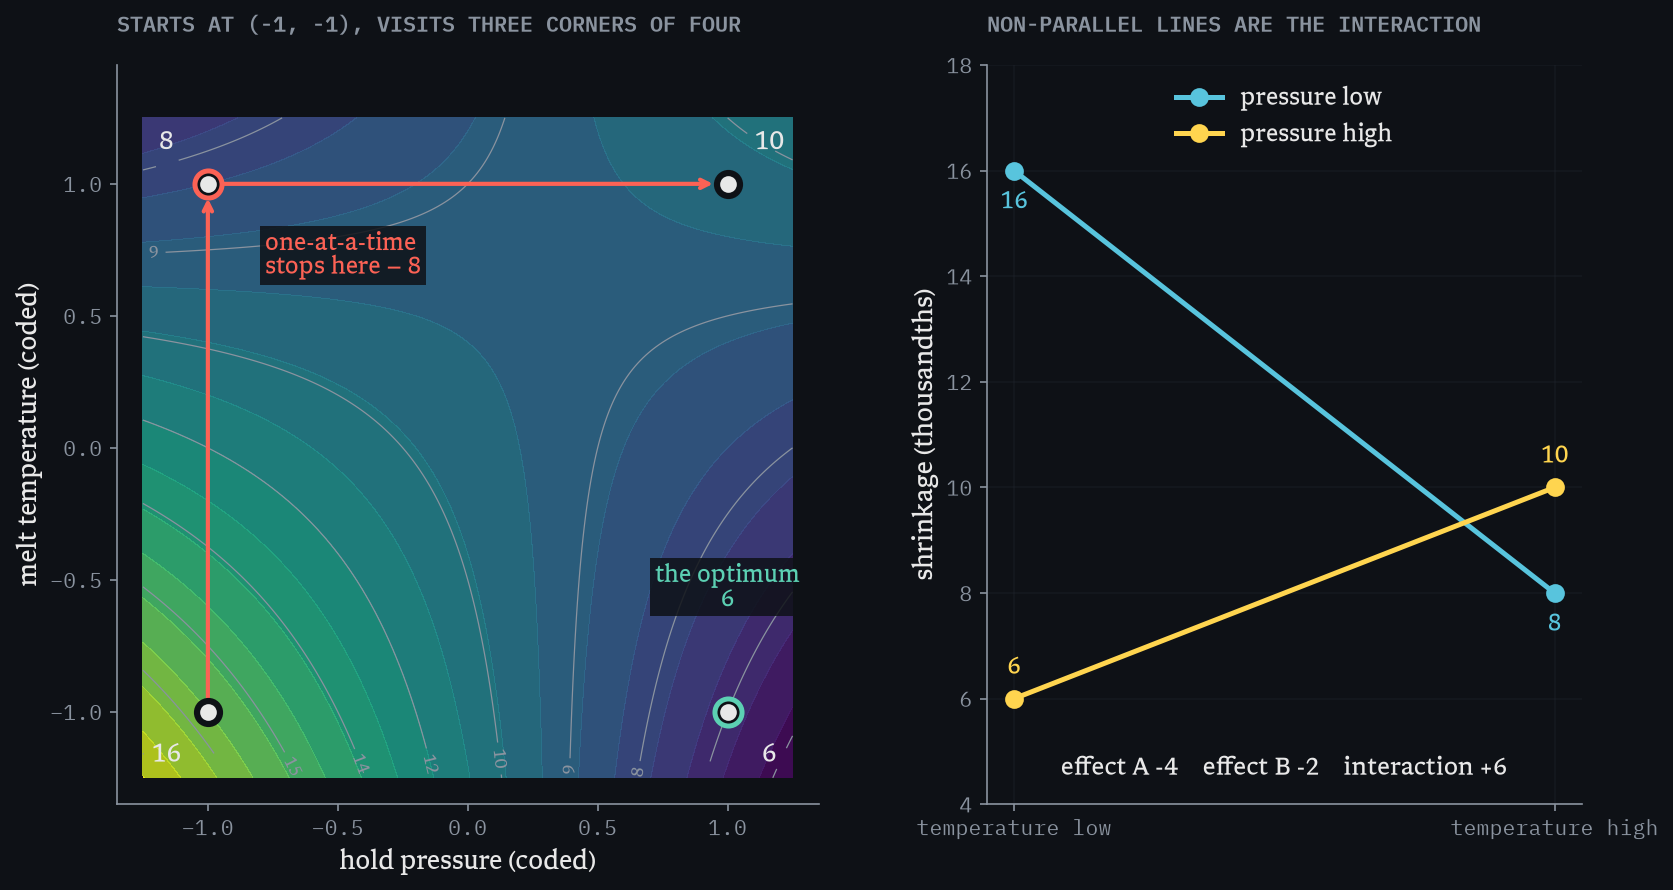
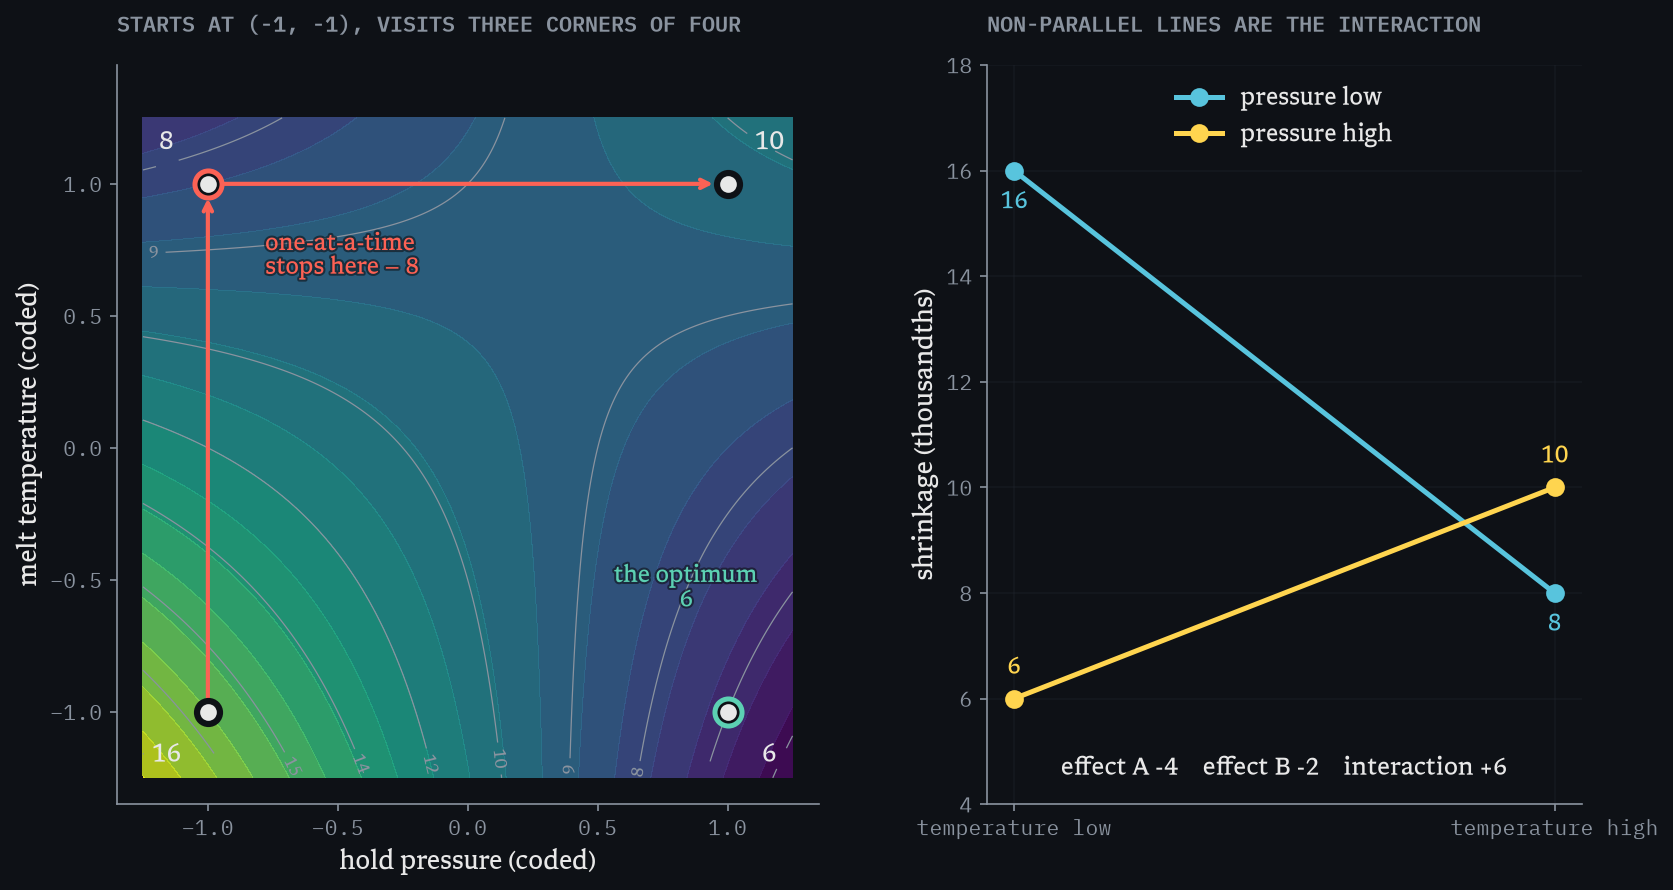
Figures: labels off the curves and out of boxes (L7.1, L12.1)
L7.1: beta label no longer boxed on the shaded area, +-3 sigma labels moved
to mid-height, power-curve labels on the empty side of the curve. L12.1: the
two dark boxes on the filled contour become a thin halo. Boxes in L1 and L10
sit on the plain ground, where they are invisible, so they stay.

Changed region(s): [[0.3419, 0.6067, 0.4973, 0.6978], [0.1554, 0.2427, 0.2797, 0.3337]]

diff --git a/level-07.html b/level-07.html
@@ -477,7 +477,7 @@
           <p>So the chance of catching that shift on the next point is 2.3 %. <span class="note speak"><span class="k">spoken · 0:48</span><em>“That is the error Level 6 never mentioned, and it is the bigger one.”</em></span>The chart is not broken. A one-sigma shift simply looks like ordinary noise to a test that only ever sees one point at a time — and this is the bigger of the two errors, because nobody is counting it.</p>
       <figure>
         <div class="rule"></div>
-        <a class="zoom" href="spc-lab/docs/l07_1_two_errors.png"><img src="spc-lab/docs/l07_1_two_errors.png" width="1587" height="913" loading="lazy"
+        <a class="zoom" href="spc-lab/docs/l07_1_two_errors.png"><img src="spc-lab/docs/l07_1_two_errors.png" width="1589" height="913" loading="lazy"
              alt="The in-control curve and a one-sigma shift against the same limits, with the power curve beside them"></a>
         <figcaption><span class="fignum">Figure 7.1</span><span class="figtext">One set of limits, two errors. Against a 1σ shift the chart misses 97.7% of points (β = 0.977) while keeping α at 0.27%; power climbs from 2.3% at 1σ to 50% at 3σ.</span></figcaption>
       </figure>

diff --git a/tools/page-sources/level-07.html b/tools/page-sources/level-07.html
@@ -374,7 +374,7 @@
 
       <figure>
         <div class="rule"></div>
-        <img src="spc-lab/docs/l07_1_two_errors.png" width="1587" height="913" loading="lazy"
+        <img src="spc-lab/docs/l07_1_two_errors.png" width="1589" height="913" loading="lazy"
              alt="The in-control curve and a one-sigma shift against the same limits, with the power curve beside them">
         <figcaption><span class="fignum">Figure 7.2</span><span class="figtext">One set of limits, two errors. Against a 1σ shift the chart misses 97.7% of points (β = 0.977) while keeping α at 0.27%; power climbs from 2.3% at 1σ to 50% at 3σ.</span></figcaption>
       </figure>

diff --git a/spc-lab/src/spclab/level07.py b/spc-lab/src/spclab/level07.py
@@ -91,20 +91,19 @@ def sheet_l07_two_errors():
 
     for v in (-LIMIT, LIMIT):
         ax.axvline(v, color=MUTED, lw=1.3, ls=":")
-    # low, not at the top: at 0.425 these sat inside the legend box
-    # inside the line: outside it, the α arrow ran through the label
-    ax.text(LIMIT - 0.12, 0.013, f"+{LIMIT:.0f}σ", color=MUTED, fontsize=11, ha="right")
-    ax.text(-LIMIT - 0.12, 0.013, f"−{LIMIT:.0f}σ", color=MUTED, fontsize=11, ha="right")
+    # mid-height, outside each line: at 0.425 they sat in the legend, at the
+    # foot the curves ran through them; at 0.22 both sides are empty
+    ax.text(LIMIT + 0.12, 0.22, f"+{LIMIT:.0f}σ", color=MUTED, fontsize=11, ha="left")
+    ax.text(-LIMIT - 0.12, 0.22, f"−{LIMIT:.0f}σ", color=MUTED, fontsize=11, ha="right")
 
     ax.annotate(f"α = {ALPHA_1*100:.2f} %\ncrying wolf",
                 xy=(LIMIT + 0.28, 0.004), xytext=(LIMIT + 0.75, 0.10),
                 fontsize=11.5, color=RED,
                 arrowprops=dict(arrowstyle="->", color=RED, lw=1.2))
-    # inside the region it names, on a ground of its own — the previous position
-    # put the text across the −3σ line
-    ax.text(0.55, 0.105, f"β = {1 - POWER_AT[SHIFT]:.3f}\nthe shift stays inside",
-            color=YELLOW, fontsize=11.5, ha="center",
-            bbox=dict(facecolor=BG, edgecolor="none", alpha=.86, pad=3.0))
+    # inside the region it names, centred on the shifted mean where the shading
+    # is widest; no ground box (it punched a hole in the shading)
+    ax.text(0.45, 0.03, f"β = {1 - POWER_AT[SHIFT]:.3f}\nthe shift\nstays inside",
+            color=YELLOW, fontsize=11.5, ha="center", linespacing=1.15)
 
     ax.set_xlim(-5.2, 6.4)
     ax.set_ylim(0, 0.47)
@@ -120,11 +119,13 @@ def sheet_l07_two_errors():
     ds = np.linspace(0, 4.2, 500)
     axp.plot(ds, [power_one_point(d) for d in ds], color=BLUE, lw=2.2)
     axp.axhline(0.5, color=MUTED, lw=1.0, ls=":")
-    for d, c in ((SHIFT, YELLOW), (BIG_SHIFT, TEAL)):
+    # labels on the empty side of the curve: above-left at the flat foot,
+    # below-right on the climb (above-right, the curve ran through them)
+    for d, c, off in ((SHIFT, YELLOW, (-0.85, 0.12)), (BIG_SHIFT, TEAL, (0.2, -0.14))):
         pw = power_one_point(d)
         axp.plot([d], [pw], "o", color=c, ms=7, zorder=5)
         axp.annotate(f"{d:.0f}σ → {pw*100:.1f} %", xy=(d, pw),
-                     xytext=(d + 0.18, pw + 0.07), fontsize=11.5, color=c,
+                     xytext=(d + off[0], pw + off[1]), fontsize=11.5, color=c,
                      arrowprops=dict(arrowstyle="->", color=c, lw=1.1))
     axp.set_xlim(0, 4.2)
     axp.set_ylim(0, 1.02)

diff --git a/spc-lab/src/spclab/level12.py b/spc-lab/src/spclab/level12.py
@@ -15,6 +15,7 @@ Every number comes from spclab.experiments.
 from __future__ import annotations
 
 import numpy as np
+from matplotlib import patheffects
 import matplotlib as mpl
 import matplotlib.pyplot as plt
 
@@ -50,6 +51,9 @@ mpl.rcParams.update({
     "axes.spines.top": False, "axes.spines.right": False,
 })
 figstyle.apply()
+
+
+HALO = [patheffects.withStroke(linewidth=2, foreground=BG, alpha=.6)]  # halo, not a box: a box punched a hole in the filled contour
 
 
 def _save(fig, name):
@@ -99,10 +103,10 @@ def sheet_l12_why_ofat_fails():
     ax.text(OFAT["chosen"][0] + 0.22, OFAT["chosen"][1] - 0.34,
             f"one-at-a-time\nstops here — {OFAT['chosen_y']:.0f}", ha="left",
             fontsize=11, color=RED,
-            bbox=dict(facecolor=BG, edgecolor="none", alpha=.85, pad=2.4))
-    ax.text(OPTIMUM[0], OPTIMUM[1] + 0.40,
-            f"the optimum\n{OPTIMUM_Y:.0f}", ha="center", fontsize=11, color=TEAL,
-            bbox=dict(facecolor=BG, edgecolor="none", alpha=.85, pad=2.4))
+            path_effects=HALO)
+    ax.text(OPTIMUM[0] + 0.12, OPTIMUM[1] + 0.40,
+            f"the optimum\n{OPTIMUM_Y:.0f}", ha="right", ma="center", fontsize=11, color=TEAL,
+            path_effects=HALO)
 
     ax.set_xlim(-1.35, 1.35)
     ax.set_ylim(-1.35, 1.45)
